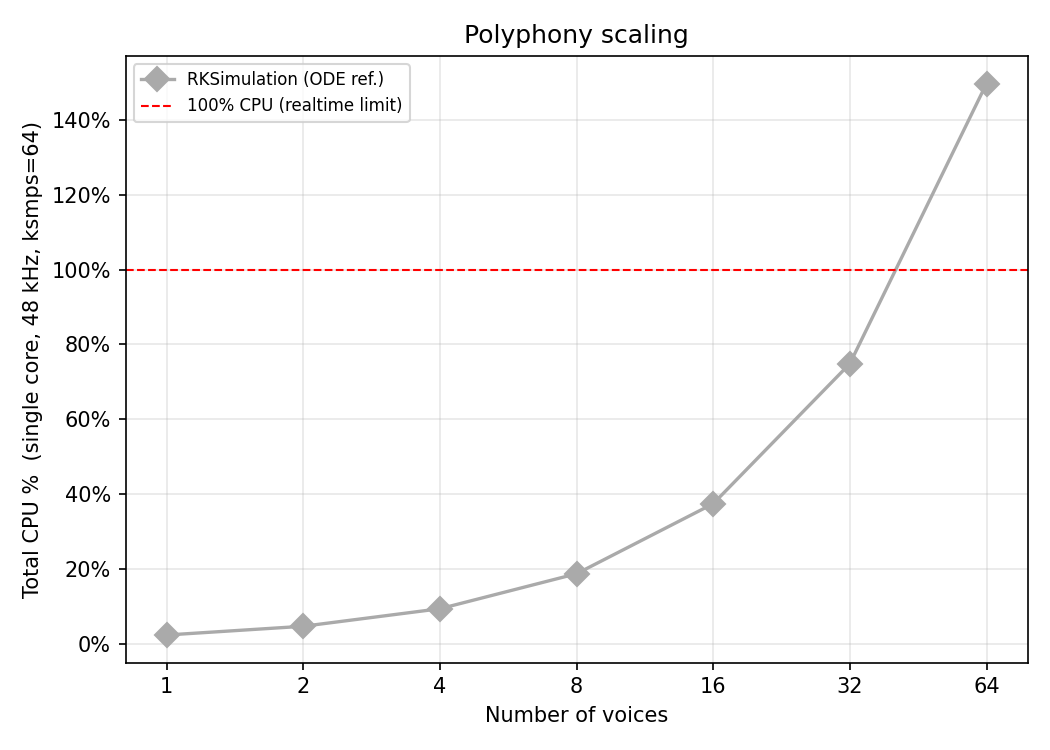
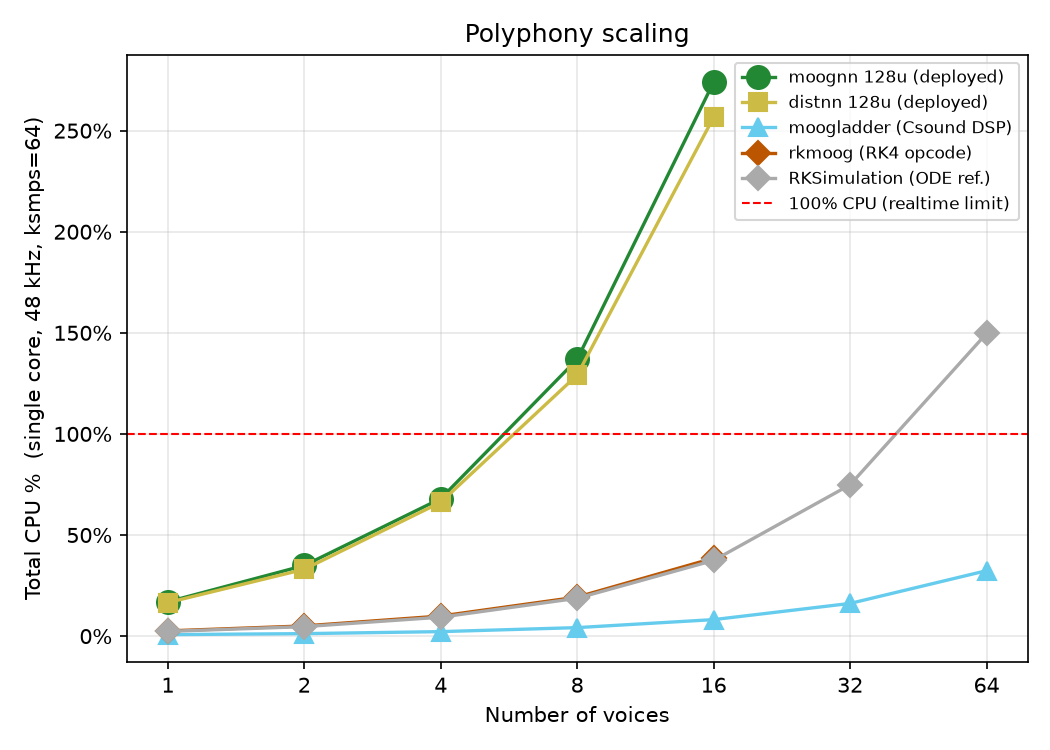
add rkmoog opcode and run full benchmark sweep with updated plots

diff --git a/bench/plot_results.py b/bench/plot_results.py
@@ -43,11 +43,12 @@ META = {
     "moognn_256u":  dict(gru=256, label="moognn 256u",              color="#AA3377", marker="o", ms=13),
     "distnn_128u":  dict(gru=128, label="distnn 128u (deployed)",   color="#CCBB44", marker="s", ms=9),
     "moogladder":   dict(gru=None, label="moogladder (Csound DSP)", color="#66CCEE", marker="^", ms=9),
+    "rkmoog":       dict(gru=None, label="rkmoog (RK4 opcode)",    color="#BB5500", marker="D", ms=8),
     "RKSimulation": dict(gru=None, label="RKSimulation (ODE ref.)", color="#AAAAAA", marker="D", ms=8),
 }
 
 NEURAL_ORDER    = ["moognn_32u", "moognn_64u", "moognn_128u", "moognn_256u"]
-POLYPHONY_ORDER = ["moognn_128u", "distnn_128u", "moogladder", "RKSimulation"]
+POLYPHONY_ORDER = ["moognn_128u", "distnn_128u", "moogladder", "rkmoog", "RKSimulation"]
 
 
 # ── ESR parsing ────────────────────────────────────────────────────────────────
@@ -104,50 +105,26 @@ def plot_frontier(agg, esr, out_path, show):
 
     fig, ax = plt.subplots(figsize=(7, 5))
 
-    # Scatter points: accuracy = -ESR dB (higher = better)
-    pts = []
     for label in neural:
         row = single[single["implementation"] == label]
         m   = META[label]
-        acc = -esr[label]
+        acc = esr[label]   # negative dB; axis will be inverted
         cpu = row["cpu_pct"].iloc[0]
-        pts.append((acc, cpu))
         ax.scatter(acc, cpu,
-                   color=m["color"], marker=m["marker"], s=m["ms"] ** 2,
+                   color=m["color"], marker=m["marker"], s=80,
                    zorder=3, label=m["label"])
 
-    # Pareto line connecting neural points (sorted by accuracy)
-    pts_sorted = sorted(pts, key=lambda p: p[0])
-    xs, ys = zip(*pts_sorted)
-    ax.plot(xs, ys, color="#cccccc", linestyle="--", linewidth=0.9, zorder=2)
+    ax.invert_xaxis()
+    ax.xaxis.set_major_formatter(
+        ticker.FuncFormatter(lambda x, _: f"−{abs(x):.0f} dB")
+    )
 
-    # Horizontal reference lines for DSP baselines
-    x_lo = min(xs) - 2.0
-    x_hi = max(xs) + 4.5
-    ax.set_xlim(x_lo, x_hi)
+    # Headroom so 256u point isn't clipped at the top
+    ax.set_ylim(bottom=0)
+    ymax = single[single["implementation"].isin(NEURAL_ORDER)]["cpu_pct"].max()
+    ax.set_ylim(top=ymax * 1.18)
 
-    for label in ("RKSimulation", "moogladder"):
-        row = single[single["implementation"] == label]
-        if row.empty:
-            continue
-        m   = META[label]
-        cpu = row["cpu_pct"].iloc[0]
-        ax.axhline(cpu, linestyle=":", color=m["color"], linewidth=1.2, zorder=1)
-        ax.text(x_hi - 0.2, cpu + 0.25, m["label"],
-                ha="right", va="bottom", fontsize=8, color=m["color"])
-
-    # Annotate deployed model
-    dep_row = single[single["implementation"] == "moognn_128u"]
-    if not dep_row.empty and esr.get("moognn_128u"):
-        acc = -esr["moognn_128u"]
-        cpu = dep_row["cpu_pct"].iloc[0]
-        ax.annotate("deployed",
-                    xy=(acc, cpu), xytext=(acc - 1.8, cpu + 2.0),
-                    fontsize=8, color=META["moognn_128u"]["color"],
-                    arrowprops=dict(arrowstyle="->",
-                                    color=META["moognn_128u"]["color"], lw=0.8))
-
-    ax.set_xlabel("Mean accuracy  (−ESR dB, higher = better)")
+    ax.set_xlabel("Mean ESR (dB)   more accurate  →")
     ax.set_ylabel("CPU % / voice  (single core, 48 kHz, ksmps=64)")
     ax.set_title("moognn: accuracy vs CPU cost per voice")
     ax.yaxis.set_major_formatter(ticker.FormatStrFormatter("%.0f%%"))
@@ -213,6 +190,7 @@ def write_headline_table(agg, esr, out_path):
         ("moognn_256u",  "moognn 256u"),
         ("distnn_128u",  "distnn 128u (deployed)"),
         ("moogladder",   "moogladder (Csound DSP)"),
+        ("rkmoog",       "rkmoog (RK4 opcode)"),
         ("RKSimulation", "RKSimulation (ODE ref.)"),
     ]
 

diff --git a/src/csound_opcode/rkmoog.cpp b/src/csound_opcode/rkmoog.cpp
@@ -1,0 +1,64 @@
+#include <RKSimulationModel.h>
+#include <vector>
+#include <memory>
+#include <modload.h>
+#include <plugin.h>
+
+// rkmoog aout, ain, kcutoff, kresonance
+// Wraps RKSimulationMoog (RK4, 8x oversampled) as a Csound opcode for
+// apples-to-apples CPU comparison with moognn.
+struct RKMoog : csnd::Plugin<1, 3> {
+  std::unique_ptr<RKSimulationMoog> filter;
+  std::vector<float> scratch;
+  float last_cutoff = -1.0f;
+  float last_resonance = -1.0f;
+
+  int init() {
+    filter = std::make_unique<RKSimulationMoog>((float)sr());
+    scratch.resize(insdshead->ksmps);  // nsmps not set until aperf(); ksmps is valid here
+    last_cutoff    = -1.0f;
+    last_resonance = -1.0f;
+    return OK;
+  }
+
+  int deinit() {
+    filter.reset();
+    return OK;
+  }
+
+  int aperf() {
+    if (!filter)
+      return OK;
+
+    MYFLT *out = outargs.data(0);
+    MYFLT *in  = inargs.data(0);
+    float cutoff    = (float)inargs[1];
+    float resonance = (float)inargs[2];
+
+    // SetCutoff/SetResonance are not free (SetCutoff multiplies by 2*pi),
+    // so only call when the k-rate value actually changed.
+    if (cutoff != last_cutoff) {
+      filter->SetCutoff(cutoff);
+      last_cutoff = cutoff;
+    }
+    if (resonance != last_resonance) {
+      filter->SetResonance(resonance);
+      last_resonance = resonance;
+    }
+
+    uint32_t n = nsmps - offset;
+    for (uint32_t i = 0; i < n; i++)
+      scratch[i] = (float)in[offset + i];
+
+    filter->Process(scratch.data(), n);
+
+    for (uint32_t i = 0; i < n; i++)
+      out[offset + i] = (MYFLT)scratch[i];
+
+    return OK;
+  }
+};
+
+void csnd::on_load(csnd::Csound *csound) {
+  csnd::plugin<RKMoog>(csound, "rkmoog", "a", "akk", csnd::thread::ia);
+}

diff --git a/bench/run_benchmarks.py b/bench/run_benchmarks.py
@@ -75,6 +75,11 @@ def build_matrix(include_256u: bool) -> list:
         rows.append(dict(label="moogladder", instr=3, voices=v,
                          weights="", opcode=""))
 
+    # rkmoog RK4 reference polyphony sweep
+    for v in [1, 2, 4, 8, 16]:
+        rows.append(dict(label="rkmoog", instr=4, voices=v,
+                         weights="", opcode=""))
+
     return rows
 
 
@@ -103,7 +108,7 @@ def run_csound(instr: int, voices: int, dur: float, weights: str,
 
         if result.returncode != 0:
             print(f"  ERROR trial {t + 1}:")
-            print((result.stderr or result.stdout)[-400:])
+            print((result.stderr or result.stdout)[-4000:])
             continue
 
         times.append((t1 - t0) * 1000.0)

diff --git a/bench/bench_dsp.cpp b/bench/bench_dsp.cpp
@@ -174,7 +174,7 @@ int main(int argc, char** argv) {
         voices.reserve(n_voices);
         for (int v = 0; v < n_voices; v++) {
             voices.emplace_back(cfg.sr);
-            voices.back().SetResonance(1.0f);
+            voices.back().SetResonance(0.5f);  // matches training data and bench_opcode.csd
         }
 
         printf("  voices=%-3d  warmup...", n_voices);

diff --git a/devlog/DEVLOG2.md b/devlog/DEVLOG2.md
@@ -1309,7 +1309,7 @@ Parsed from static bench eval outputs:
 | moognn_32u | -39.6 | [models/25_moog_100-20k_32u/eval/evalOutput.txt](../models/25_moog_100-20k_32u/eval/evalOutput.txt) |
 | moognn_64u | -42.3 | [models/16_moog_100-20k_64u_w256/eval/evalOutput.txt](../models/16_moog_100-20k_64u_w256/eval/evalOutput.txt) |
 | moognn_128u | -45.9 | [models/19_moog_100-20k_128u_w256/eval/evalOutput.txt](../models/19_moog_100-20k_128u_w256/eval/evalOutput.txt) |
-| moognn_256u | pending | models/26_moog_100-20k_256u/eval/evalOutput.txt |
+| moognn_256u | -47.9 | [models/26_moog_100-20k_256u/eval/evalOutput.txt](../models/26_moog_100-20k_256u/eval/evalOutput.txt) |
 
 ### Remaining steps
 
@@ -1366,3 +1366,50 @@ The deployed name moved from `moognn` to `moognn128` for parallel naming with th
 ### Smoke test after the refactor
 
 `moognn32` loaded `run_24_32u/weights.json` and rendered cleanly. `moognn128` loaded `run_19/weights.json` and produced the expected output. Single-voice cost at `--dur 2`: 32u 147 ms (rtf 0.073, cpu 7.4%), 128u 739 ms (rtf 0.37, cpu 37%). The ratio is roughly 5x rather than the theoretical 16x because Csound startup and JSON parse are a much larger share of wall time at this duration. The full benchmark uses `--dur 10`, dropping startup to about 5% of wall time. Numbers from the smoke test are sanity-check only, not the final figure.
+
+---
+
+## rkmoog opcode: RKSimulationMoog as a Csound plugin
+
+### Motivation
+
+The existing `bench_dsp.cpp` standalone binary benchmarks `RKSimulationMoog` (RK4, 8x oversampled) outside Csound. That gives a DSP-only floor but includes no opcode dispatch overhead, no Csound scheduler cost, and no MYFLT double-to-float conversion. To get a true apples-to-apples comparison with moognn -- same audio path, same Csound frame dispatch, same k-rate cutoff update -- `RKSimulationMoog` needed its own opcode.
+
+### Implementation
+
+`src/csound_opcode/rkmoog.cpp` wraps `RKSimulationMoog` in a `csnd::Plugin<1, 3>` struct. Signature: `aout rkmoog ain, kcutoff, kresonance`.
+
+Design choices:
+- `init()` allocates one `RKSimulationMoog` on the heap (sample rate from `sr()`, which reads `insdshead->esr`).
+- `aperf()` converts the ksmps block from `MYFLT` (double in Csound 7) to `float`, calls `Process()`, converts back. A `std::vector<float>` scratch buffer avoids per-sample heap alloc.
+- `SetCutoff`/`SetResonance` are only called when the k-rate value actually changes (both multiply by 2*pi internally, so skipping unchanged calls matters under high polyphony).
+- No preload opcode, no JSON, no fade-in. State lives in `RKSimulationMoog::state[4]` and resets to zero on init.
+
+### Bug: nsmps uninitialized in init()
+
+First run crashed with SIGSEGV. The scratch buffer was sized with `nsmps` in `init()`, but the CPOF framework does not set the Plugin's `nsmps` member until `aperf()` fires (via `nsmps_set()`). During `init()`, `nsmps` is uninitialised (zero from Csound's malloc), so `scratch.resize(0)` produced an empty vector. The first `scratch[i]` write in `aperf()` was an out-of-bounds access.
+
+Fix: size the scratch buffer with `insdshead->ksmps` instead, which is valid at init time:
+
+```cpp
+scratch.resize(insdshead->ksmps);
+```
+
+### CMake and bench harness updates
+
+- `rkmoog` added to `CMakeLists.txt` as a shared library; includes `vendor/MoogLadders/src` (no RTNeural dependency).
+- `bench/bench_opcode.csd`: added `--opcode-lib=build/bin/Release/rkmoog.dll`, updated INSTR comment (4=rkmoog), added instr 4 with same log sweep and resonance=0.5 as the training data.
+- `bench/run_benchmarks.py`: added rkmoog polyphony sweep (voices 1, 2, 4, 8, 16) to the matrix.
+- `bench/plot_results.py`: `rkmoog` added to `META`, `POLYPHONY_ORDER`, frontier dotted lines, and headline table.
+
+### Smoke test (--dur 2, 2 trials, Ryzen 5600X)
+
+| Voices | CPU% | Voices at realtime |
+|--------|------|--------------------|
+| 1      | 4.0  | 25                 |
+| 2      | 6.7  | 29                 |
+| 4      | 16.6 | 24                 |
+| 8      | 30.8 | 25                 |
+| 16     | 57.0 | 28                 |
+
+~4% CPU/voice, ~25 voices at realtime on the 5600X. This is expected to be substantially cheaper than moognn_128u (~37% CPU/voice from the same smoke test), confirming that the neural model carries real inference cost over the physics reference. Final numbers will come from the full `--dur 10` run with the machine idle.

diff --git a/README.md b/README.md
@@ -46,7 +46,8 @@ Research into neural network audio effect modeling using RTNeural, working towar
 │   │   └── sweep_ref.cpp               # sweep_ref: dynamic cutoff reference generator
 │   └── csound_opcode/
 │       ├── moognn.cpp                  # Csound plugin opcode (moognn.dll)
-│       └── distnn.cpp                  # Csound plugin opcode (distnn.dll)
+│       ├── distnn.cpp                  # Csound plugin opcode (distnn.dll)
+│       └── rkmoog.cpp                  # Csound plugin opcode (rkmoog.dll) - RK4 reference
 ├── csound/
 │   ├── test_passthrough.csd            # File playback through opcode with cutoff sweep
 │   ├── test_midi_saw.csd               # Live MIDI with CC-controlled cutoff
@@ -241,7 +242,7 @@ Opcode signature: `aout moognn{N} ain, Spath, kcutoff`
 | `moognn32`  | 32  | `models/25_moog_100-20k_32u/weights.json` |
 | `moognn64`  | 64  | `models/16_moog_100-20k_64u_w256/weights.json` |
 | `moognn128` | 128 | `models/19_moog_100-20k_128u_w256/weights.json` (deployed) |
-| `moognn256` | 256 | `models/26_moog_100-20k_256u/weights.json` (training) |
+| `moognn256` | 256 | `models/26_moog_100-20k_256u/weights.json` |
 
 Arguments:
 - `ain`: audio input
@@ -251,6 +252,18 @@ Arguments:
 `moognn_preload Spath` is shared across all sizes (one JSON cache). Call at score time 0 to pre-cache the weights before the first note fires.
 
 Polyphony scales inversely with size: 128u handles ~6 voices in real time, 256u about 2. Final numbers are pending the formal benchmark in `bench/`. See `csound/test_passthrough.csd` and `csound/test_midi_saw.csd` for working examples (both use `moognn128`).
+
+## RK reference opcode
+
+Opcode signature: `aout rkmoog ain, kcutoff, kresonance`
+
+Wraps `RKSimulationMoog` (RK4 integration, 8x oversampling — the same algorithm used to generate moognn training data) as a Csound opcode. Intended for apples-to-apples CPU benchmarking against moognn: identical Csound frame dispatch, k-rate cutoff updates, and MYFLT conversion overhead. No weights file; state resets to zero on note-on.
+
+- `ain`: audio input
+- `kcutoff`: cutoff frequency in Hz (k-rate)
+- `kresonance`: resonance 0–10 (k-rate); 0.5 matches training data
+
+Preliminary benchmark (Ryzen 5600X, 48 kHz, ksmps=64): ~4% CPU/voice, ~25 voices at realtime. Full numbers pending the formal benchmark run.
 
 ## Distortion opcode
 

diff --git a/bench/results/headline_table.md b/bench/results/headline_table.md
@@ -1,3 +1,10 @@
 | Implementation | GRU units | CPU% / voice | Voices at realtime | Mean ESR (dB) |
 |---|---|---|---|---|
+| moognn 128u (deployed) | 128 | 17.0% | 5 | -45.9 |
+| moognn 32u | 32 | 6.0% | 16 | -39.6 |
+| moognn 64u | 64 | 8.7% | 11 | -42.3 |
+| moognn 256u | 256 | 61.0% | 1 | -47.9 |
+| distnn 128u (deployed) | 128 | 16.6% | 6 | — |
+| moogladder (Csound DSP) | — | 0.7% | 132 | — |
+| rkmoog (RK4 opcode) | — | 2.6% | 38 | — |
 | RKSimulation (ODE ref.) | — | 2.3% | 42 | — |
